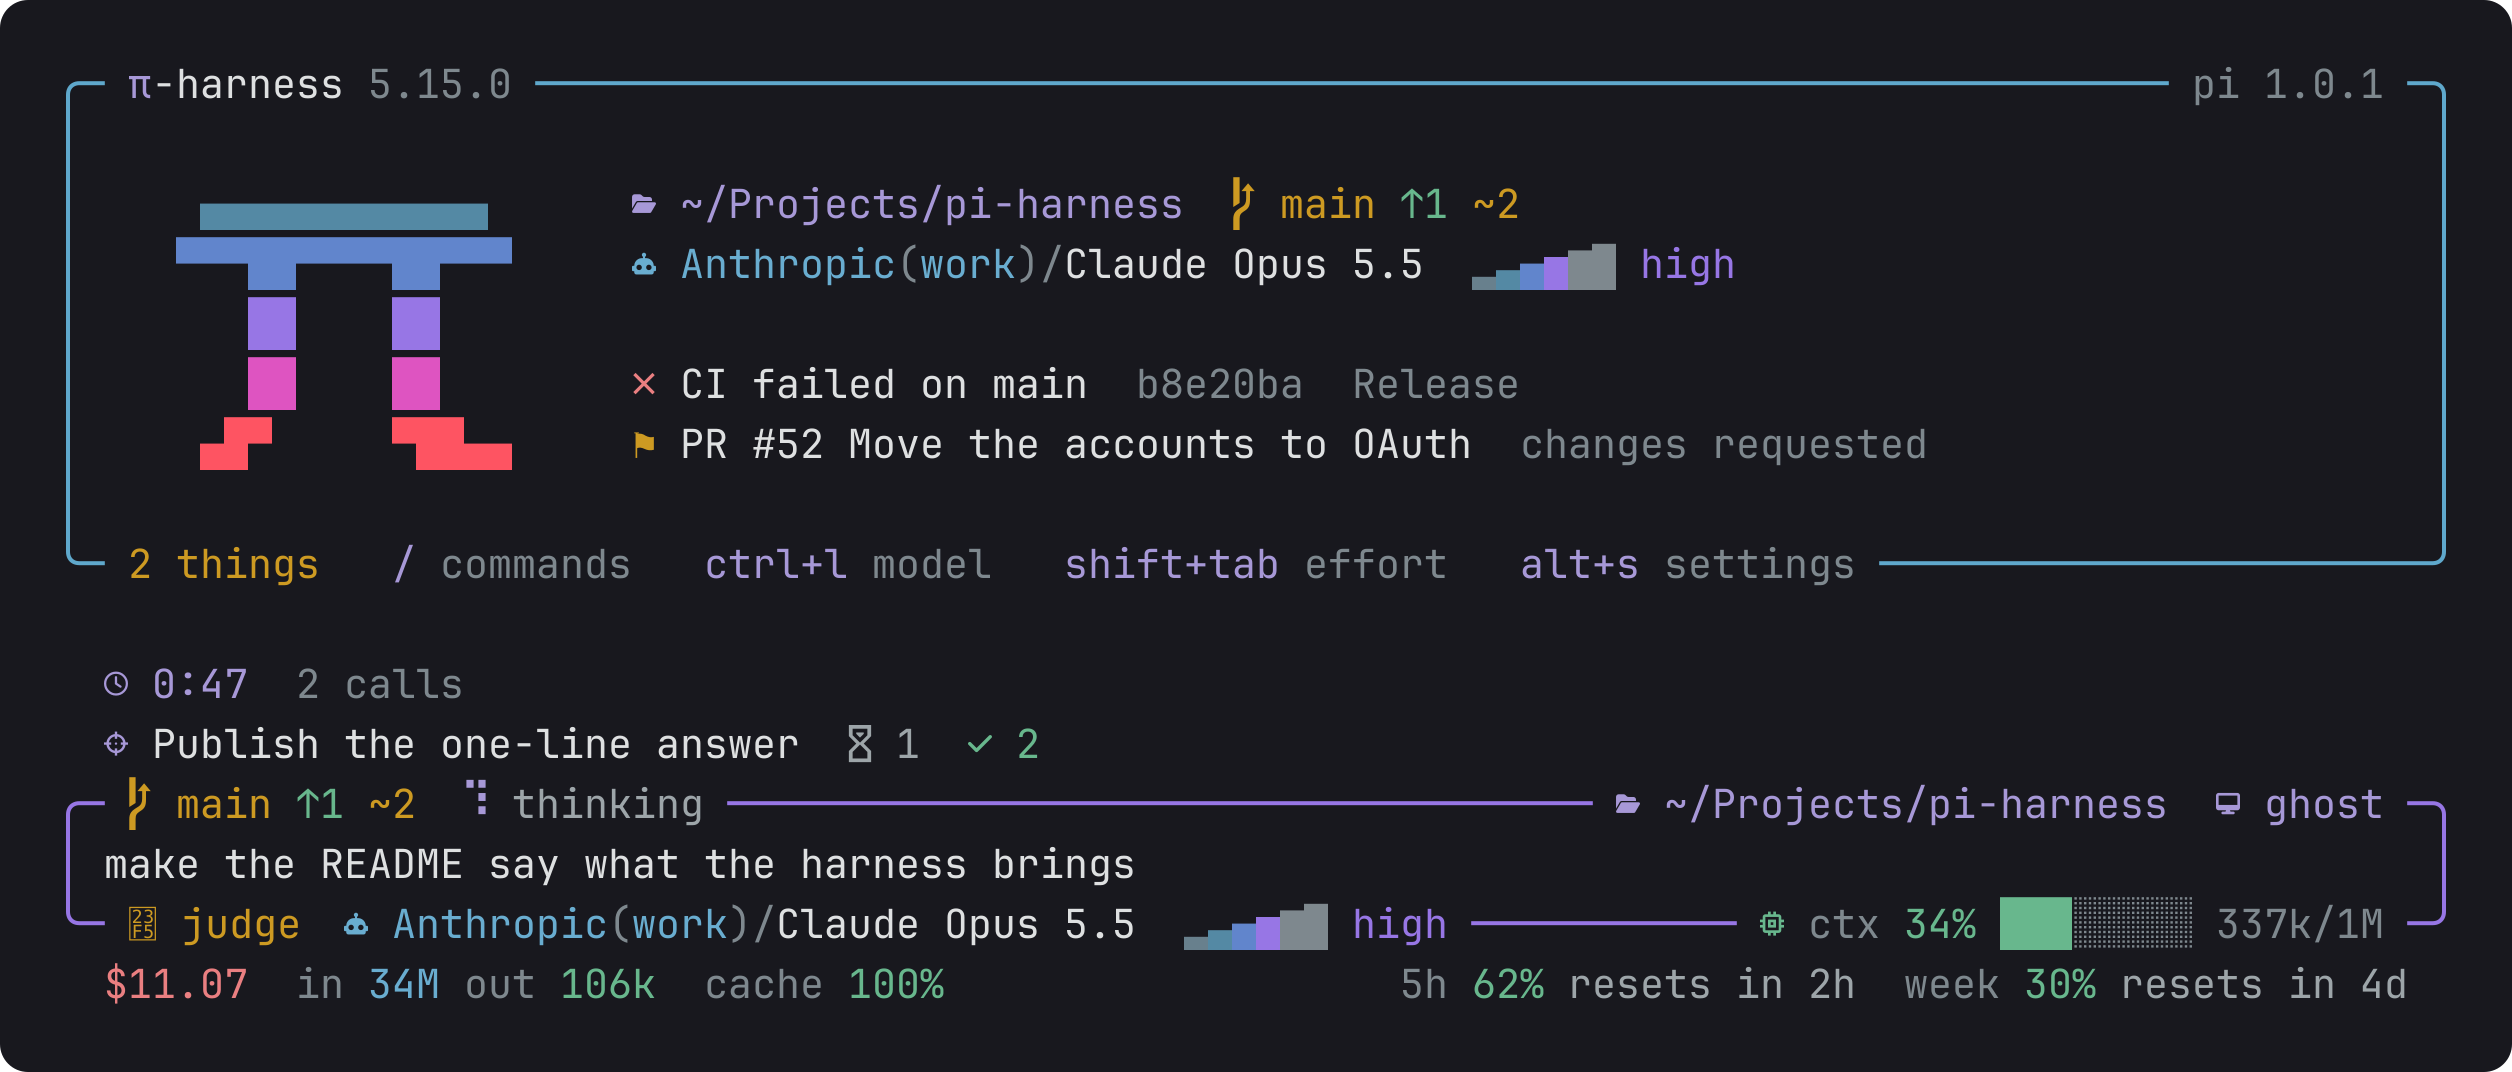
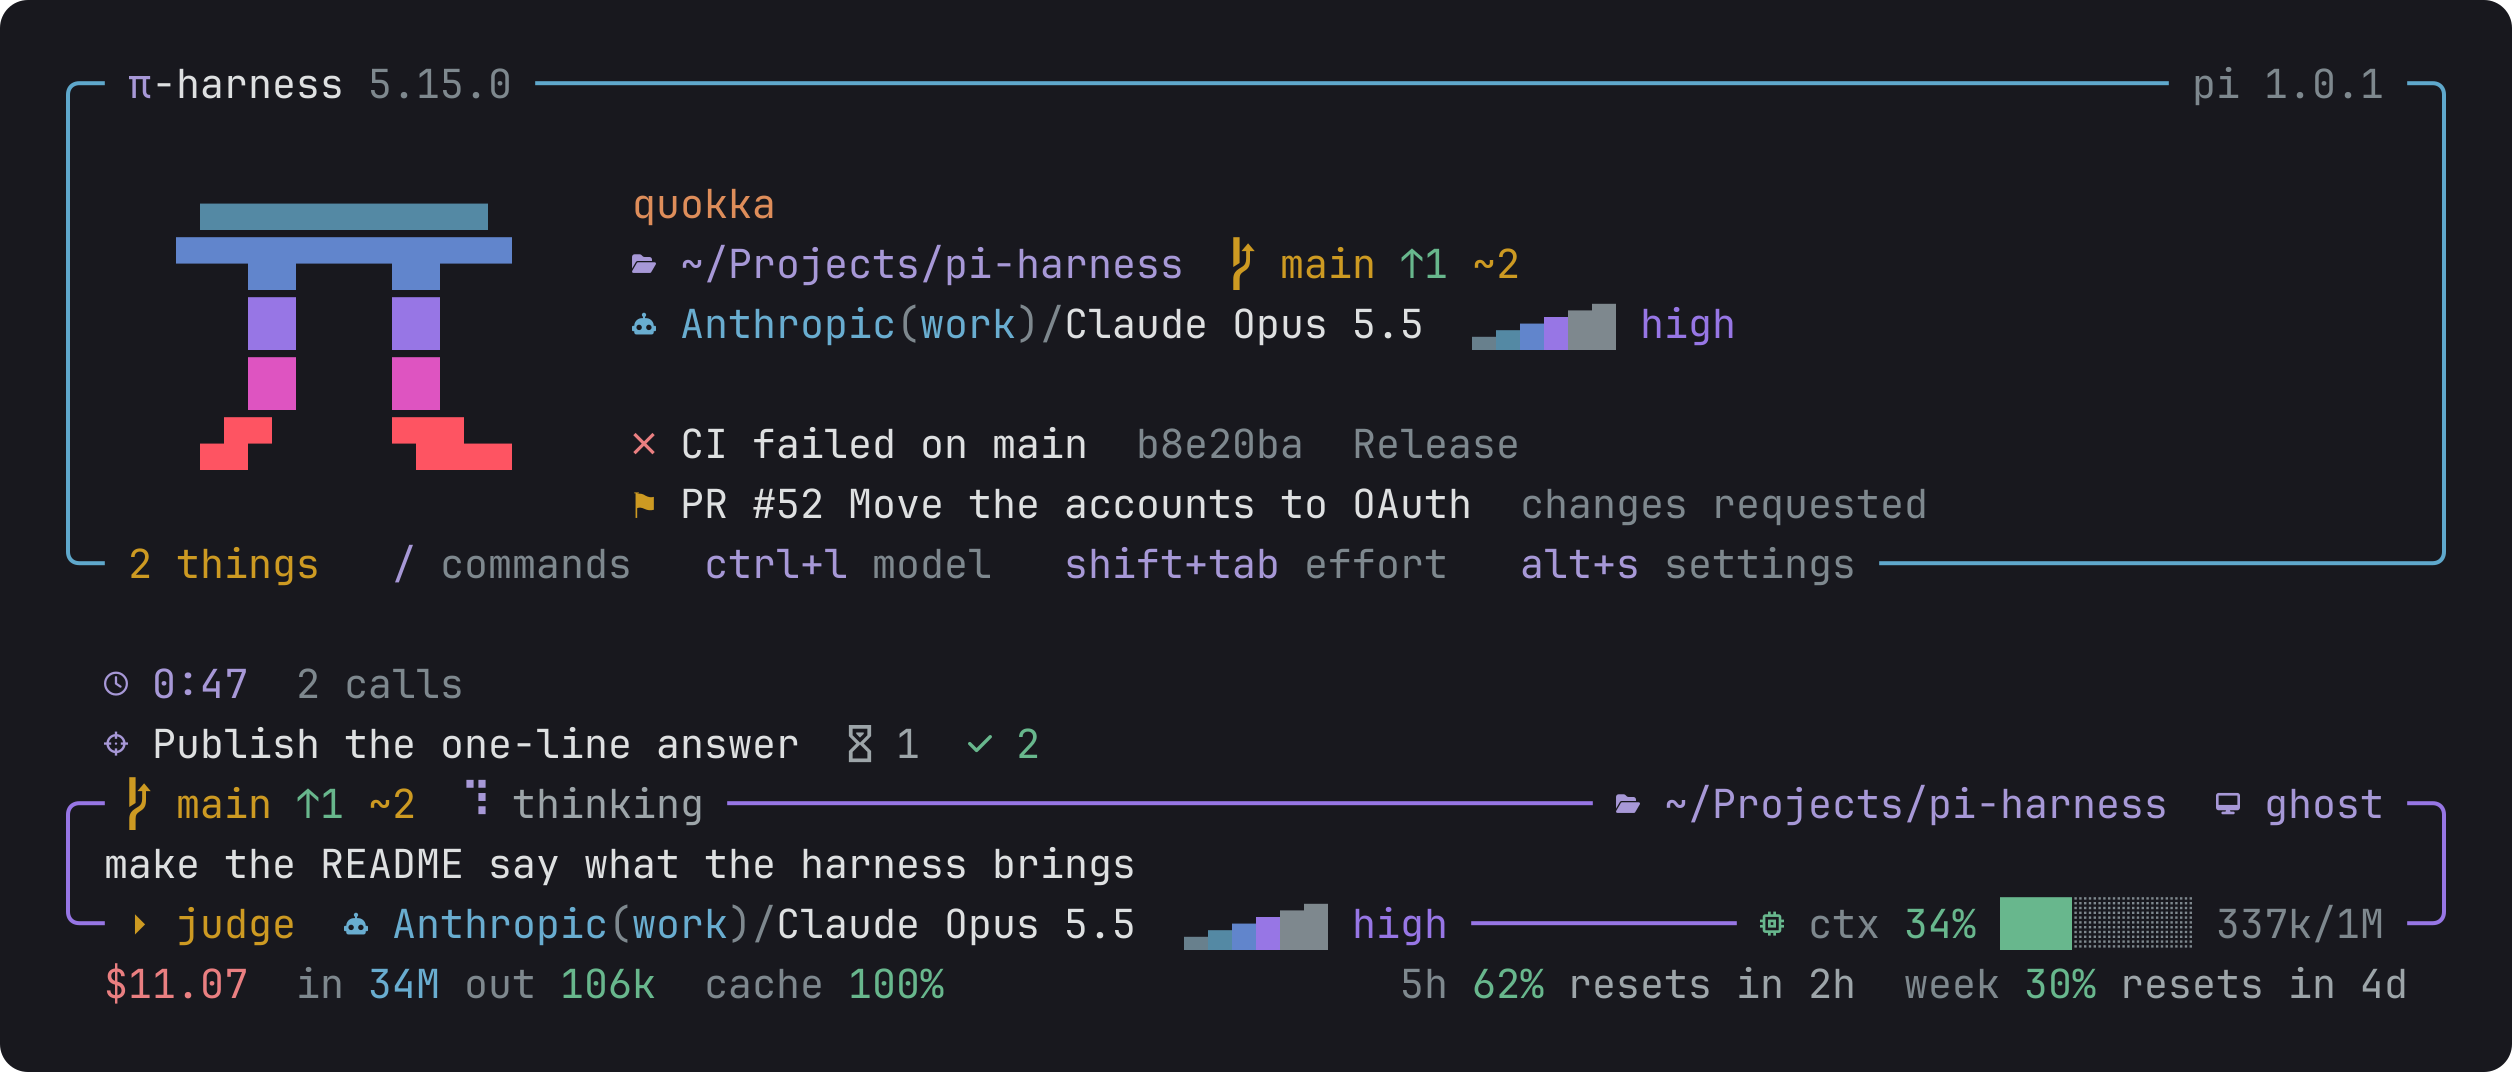
feat(look): the start card names the session by the word the room calls it

diff --git a/packages/look/test/header.test.ts b/packages/look/test/header.test.ts
@@ -2,7 +2,7 @@ import { describe, expect, test } from "bun:test";
 
 import type { GithubState } from "../src/data/github.ts";
 import { HeaderComponent, type HeaderSource } from "../src/ui/header.ts";
-import { plain, screen } from "./helpers.ts";
+import { plain, screen, snapshot } from "./helpers.ts";
 
 function source(github: () => GithubState | undefined): HeaderSource {
 	return {
@@ -67,5 +67,40 @@ describe("what the start card says about GitHub", () => {
 		const first = header.render(100);
 		const second = header.render(100);
 		expect(second).toBe(first);
+	});
+});
+
+describe("the session's name on the start card", () => {
+	test("the word the room calls it by sits above the folder, with pi's own name beside it", () => {
+		const data = snapshot({ me: { handle: "quokka" }, sessionName: "fix the board" });
+		const lines = new HeaderComponent(
+			screen(data),
+			source(() => undefined),
+		)
+			.render(100)
+			.map(plain);
+		const name = lines.findIndex((line) => line.includes("quokka  fix the board"));
+		const folder = lines.findIndex((line) => line.includes("pi-harness") && line.includes("main"));
+		expect(name).toBeGreaterThan(0);
+		expect(folder).toBe(name + 1);
+	});
+
+	test("a session without a word yet draws no empty line for it", () => {
+		const lines = new HeaderComponent(
+			screen(),
+			source(() => undefined),
+		)
+			.render(100)
+			.map(plain);
+		const folder = lines.findIndex((line) => line.includes("pi-harness") && line.includes("main"));
+		expect(folder).toBe(2);
+	});
+
+	test("the short card names it after the harness", () => {
+		const style: HeaderSource = { ...source(() => undefined), style: () => "compact" };
+		const [first] = new HeaderComponent(screen(snapshot({ me: { handle: "quokka" } })), style)
+			.render(100)
+			.map(plain);
+		expect(first).toMatch(/π-harness .* · quokka · /);
 	});
 });

diff --git a/packages/look/src/ui/header.ts b/packages/look/src/ui/header.ts
@@ -115,8 +115,10 @@ export class HeaderComponent implements Component {
 		const snapshot = screen.snapshot();
 		const last = this.#source.lastVisit();
 
+		const name = this.#name(paint);
 		const right = [
 			"",
+			...(name === "" ? [] : [name]),
 			this.#segments(["path", "branch"], paint),
 			this.#segments(["model", "effort"], paint),
 			"",
@@ -219,7 +221,11 @@ export class HeaderComponent implements Component {
 	#compact(width: number, notes: readonly StartNote[]): string[] {
 		const paint = this.#screen.paint();
 		const separator = paint.dim(this.#screen.separator());
-		const first = [this.#title(paint), this.#segments(["model", "effort", "path", "branch"], paint)]
+		const first = [
+			this.#title(paint),
+			this.#name(paint),
+			this.#segments(["model", "effort", "path", "branch"], paint),
+		]
 			.filter((part) => part !== "")
 			.join(separator);
 		const last = this.#source.lastVisit();
@@ -234,6 +240,18 @@ export class HeaderComponent implements Component {
 	#title(paint: Paint): string {
 		const glyph = paint.bold(paint.role("brand", GLYPH.pi));
 		return `${glyph}${paint.bold("-harness")} ${paint.dim(HARNESS_VERSION)}`;
+	}
+
+	/** So the operator knows from the first screen what the room and the page call this session. */
+	#name(paint: Paint): string {
+		const { me, sessionName } = this.#screen.snapshot();
+		if (me === undefined) return "";
+		const word = paint.bold(
+			me.color === undefined ? paint.role("brand", me.handle) : paint.raw(me.color, me.handle),
+		);
+		return sessionName === undefined || sessionName === ""
+			? word
+			: `${word}  ${paint.dim(sessionName)}`;
 	}
 
 	#segments(ids: readonly SegmentId[], paint: Paint): string {

diff --git a/packages/look/src/data/snapshot.ts b/packages/look/src/data/snapshot.ts
@@ -35,6 +35,8 @@ export interface Snapshot {
 	git: GitState | undefined;
 	host: string | undefined;
 	sessionName: string | undefined;
+	/** The word the room calls this session by, in its color once it is in a room. */
+	me: { handle: string; color?: string } | undefined;
 	version: string;
 	model: ModelInfo | undefined;
 	account: AccountState | undefined;
@@ -66,6 +68,7 @@ export function emptySnapshot(): Snapshot {
 		git: undefined,
 		host: undefined,
 		sessionName: undefined,
+		me: undefined,
 		version: VERSION,
 		model: undefined,
 		account: undefined,
@@ -96,6 +99,7 @@ export interface LiveInputs {
 	run: RunView | undefined;
 	statuses: ReadonlyMap<string, string>;
 	board?: Board | undefined;
+	me?: { handle: string; color?: string } | undefined;
 	peers?: PeerMark[] | undefined;
 	peersUnread?: number | undefined;
 	peersWriting?: WritingMark[] | undefined;
@@ -126,6 +130,7 @@ export class SnapshotReader {
 			git: live.git,
 			host: this.#host,
 			sessionName: ctx.sessionManager.getSessionName(),
+			me: live.me,
 			version: VERSION,
 			model:
 				model === undefined

diff --git a/packages/look/src/index.ts b/packages/look/src/index.ts
@@ -11,6 +11,7 @@ import {
 	drawSkillRefs,
 	type FeatureScope,
 	hideImagesUnderOverlays,
+	NAMES,
 	SKILL_REF,
 	provideViews,
 	type SessionSource,
@@ -389,10 +390,13 @@ function accountOf(scope: FeatureScope, provider: string | undefined): AccountSt
 
 function boardAndPeersOf(
 	scope: FeatureScope,
-): Pick<LiveInputs, "board" | "peers" | "peersUnread" | "peersWriting"> {
+): Pick<LiveInputs, "board" | "me" | "peers" | "peersUnread" | "peersWriting"> {
 	const peers = PEERS.current(scope);
+	const handle = NAMES.current(scope)?.handle;
+	const color = peers?.me?.handle === handle ? peers?.me?.color : undefined;
 	return {
 		board: BOARD.current(scope),
+		me: handle === undefined ? undefined : { handle, ...(color === undefined ? {} : { color }) },
 		peers: peers?.peers,
 		peersUnread: peers?.unread,
 		peersWriting: peers?.writing,

diff --git a/scripts/docs/look.ts b/scripts/docs/look.ts
@@ -60,6 +60,7 @@ function snapshot(theme: Theme): Snapshot {
 		branch: "main",
 		git: { ahead: 1, behind: 0, staged: 0, modified: 2, untracked: 0, conflicted: 0, stashed: 0 },
 		host: "ghost",
+		me: { handle: "quokka", color: "syntaxString" },
 		model: { name: "Claude Opus 5.5", provider: "Anthropic", reasoning: true },
 		account: {
 			provider: "anthropic",
